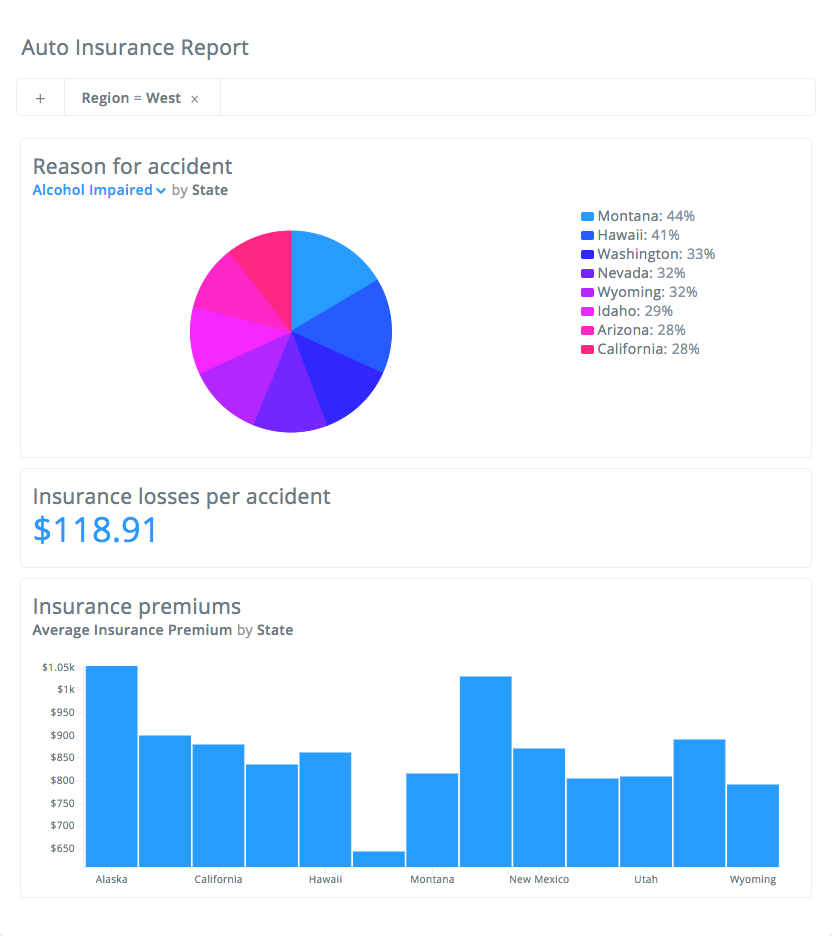
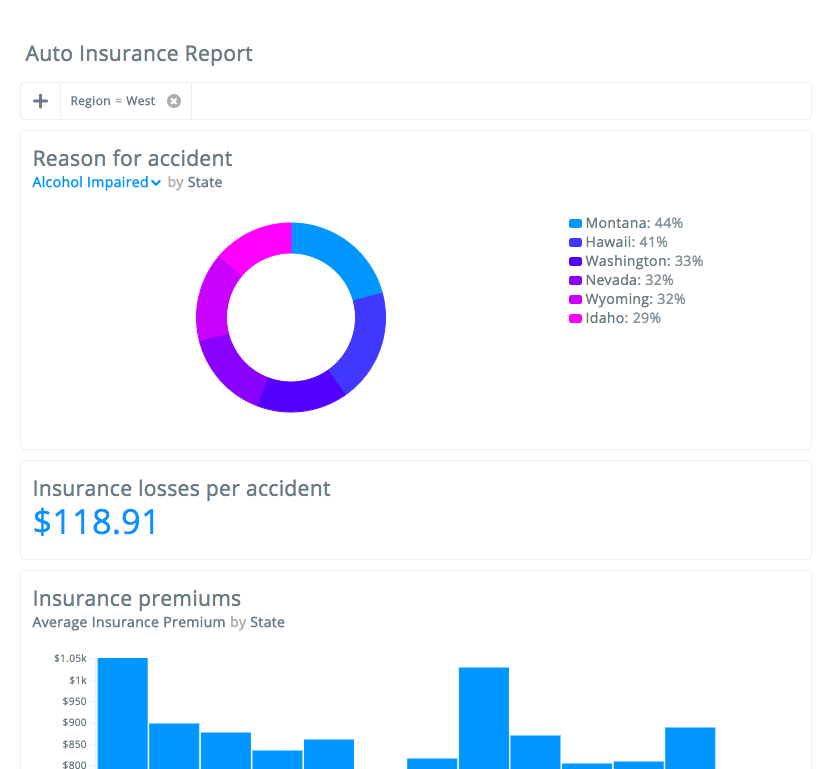
Improve titles and cards

Changed region(s): [[0.0312, 0.6242, 0.9375, 1.0], [0.0312, 0.0312, 0.4688, 0.593], [0.6875, 0.2185, 0.875, 0.4369]]

diff --git a/src/stylesheets/main.css b/src/stylesheets/main.css
@@ -1,1 +1,1 @@
-.card-container,.fork-me,.resources,header{text-align:center}@font-face{font-family:Montserrat;font-style:normal;font-weight:400;src:local('Montserrat Regular'),local('Montserrat-Regular'),url(https://fonts.gstatic.com/s/montserrat/v11/zhcz-_WihjSQC0oHJ9TCYC3USBnSvpkopQaUR-2r7iU.ttf) format('truetype')}@font-face{font-family:'Open Sans';font-style:normal;font-weight:400;src:local('Open Sans Regular'),local('OpenSans-Regular'),url(https://fonts.gstatic.com/s/opensans/v15/cJZKeOuBrn4kERxqtaUH3aCWcynf_cDxXwCLxiixG1c.ttf) format('truetype')}header{width:100%;margin-top:38px;margin-bottom:30px}.logo{width:40px;height:auto;margin-bottom:60px}.fork-me{top:80px;right:-100px;transform:rotate(45deg);-webkit-transform:rotate(45deg);position:absolute;width:400px;background:#269CFF;line-height:50px;letter-spacing:1px;color:#fff;box-shadow:0 0 3px rgba(0,0,0,.3)}.card,.container,.dataset a,p{position:relative}.lead{max-width:600px;margin:0 auto 50px}.title::first-letter{text-transform:capitalize}.feature,h6{text-transform:uppercase;display:inline-block}.resources{width:100%}.resources div{display:inline-block;margin:0 10px 10px}.resources h6{margin:0}.resources p{color:#404040;display:inline-block;margin:0}.feature{z-index:99;background-color:#fff;border-radius:1rem;border:1px solid #DEDEDE;box-shadow:none;margin:3px 6px 0 0;font-size:.7rem;font-family:Montserrat,Helvetica,Arial,sans-serif;padding:5px 10px}.feature.custom_colors{color:#E341D5}.feature.custom_controls{color:#00AD39}.feature.filters{color:#40e0d0}.feature.formatters{color:#FACF13}.feature.multitenancy{color:#FF03A6}.feature.themes{color:#269CFF}.feature.data_interactions{color:orange}.feature.dates{color:#CC2645}.feature.custom_components{color:#4475CC}.feature.ready_to_fork{color:grey}.dataset a,p{top:1px}body{padding:0;margin:0}.container{font-family:'Open Sans',sans-serif;font-size:1rem;padding:0 30px 100px;color:#F2F2F2;background-color:#F6F6F6;margin:0 auto;letter-spacing:.02223rem;font-weight:400;overflow-x:hidden;min-height:calc(100vh - 100px)}h2,h6{color:#888}h1,h2,h3,h4,h5,h6{margin:0 0 1rem;line-height:1.5;font-weight:400}h1{font-size:1.778rem;color:#404040}h2{font-size:1.15rem;line-height:1.7;margin-bottom:1.111rem}h3{font-size:1.5rem;margin-bottom:0}h6{font-size:.7rem;font-family:Montserrat,Helvetica,Arial,sans-serif}#app-navigation .defaultTitle:first-letter,#app-navigation .navTitle:first-letter,.controls button#major-btn,.controls input#major-btn,.controls select#major-btn{text-transform:capitalize}#reset-btn,.controls button,.controls input,.controls select{z-index:99;font-family:'Open Sans',sans-serif}p{margin:.5rem 0 1rem}:focus{outline:0}a{color:#269cff;text-decoration:none}button:hover{cursor:pointer}hr{display:block;height:1px;border:0;padding:0;background:#DEDEDE;background:-moz-linear-gradient(0deg,#DEDEDE,#DEDEDE 60%,#F2F2F2);background:-webkit-gradient(linear,0 0,100% 0,from(#DEDEDE),color-stop(60%,#DEDEDE),to(#F2F2F2))}#app-header,#app-navigation,.toolbar,.view-container{max-width:800px;margin:0 auto}.view-container{border:1px solid #DEDEDE;border-bottom-left-radius:.2778rem;border-bottom-right-radius:.2778rem;border-top:none;padding:1.5rem 1rem 1rem;min-height:400px;overflow:hidden}@media (max-width:799px){.view-container{padding:15px 5px 5px}.toolbar{text-align:center}.toolbar .controls{float:none}}.toolbar{border:1px solid #DEDEDE;border-top-left-radius:.2778rem;border-top-right-radius:.2778rem;background-color:#F2F2F2;padding:1rem;overflow:auto}#app-instruction{display:inline-block}@media (max-width:799px){#app-instruction{display:none}#app-navigation{text-align:center}}.controls,.instruction{display:inline-block;color:#888}.controls strong,.instruction strong{color:#269CFF;background-color:#fff;padding:2px 8px;border-radius:5rem}.controls{float:right;margin:8px auto}.controls button,.controls input,.controls select{border-radius:.2778rem;font-size:.7rem;border:1px solid #DEDEDE;background-color:#fff;padding:10px;box-shadow:.05556rem .05556rem .2222rem rgba(0,0,0,.22);color:#888}.controls button.active,.controls input.active,.controls select.active{color:#fff;background-color:#269CFF;border-color:#269CFF}.controls button.alert,.controls input.alert,.controls select.alert{color:#fff;background-color:#FF2645}.controls button span,.controls input span,.controls select span{color:red}.controls input{width:160px}.controls input.dateInput{width:140px}.controls #major-btn,.controls select{font-size:1rem;padding:2px 6px 3px;box-shadow:none}#app-navigation{margin:40px auto 20px;height:40px;width:100%}#app-navigation .prev{float:left}#app-navigation .next{float:right}#app-navigation .defaultTitle,#app-navigation .navTitle{display:inline-block;padding:0 5px;vertical-align:super;font-size:1.15rem}#app-navigation strong{font-size:20px;position:relative;top:-6px}.card-container{width:100%;margin:80px auto 0;max-width:1200px}@media (max-width:1237px){.card-container{max-width:800px}}.card-list{display:-ms-flexbox;display:flex;-ms-flex-flow:row wrap;flex-flow:row wrap;width:100%}.card-filler,.card-wrapper{width:350px;-ms-flex-pack:justify;justify-content:space-between;padding:0 20px;margin:0 auto}@media (max-width:750px){.card-filler,.card-wrapper{padding:0}}.card{text-align:left;margin-bottom:50px}.card.inactive img{opacity:.5;filter:grayscale(10%)}.card .image-wrapper{border:1px solid #DEDEDE;border-radius:.2778rem;max-height:190px;overflow:hidden;margin-bottom:1rem;box-shadow:.2rem .2rem .8rem rgba(0,0,0,.05)}.card img{width:100%;height:auto}.card .title{color:#404040}#reset-btn,.footer .link-list p{color:#888}.card .description{color:#888;line-height:1.5em}.hidden{display:none!important}@media (max-width:799px){.desktop-only{display:none}}@media (min-width:800px){.mobile-only{display:none}}.footer{background-color:#DEDEDE;position:absolute;bottom:0;left:0;right:0;width:100%;height:60px;text-align:center;font-size:1.15rem;display:-ms-flexbox;display:flex;-ms-flex-align:center;align-items:center}#reset-btn,.view-container{background-color:#fff}.footer .link-list{margin:0 auto;padding:0 1.65rem}.footer .link-list a.mobile-only:not(:first-of-type){padding-left:50px}.custom-report .resources{display:none}.custom-report .view-container{border-top:1px solid #DEDEDE;border-radius:.2778rem}#reset-btn{border-radius:.2778rem;font-size:.7rem;border:1px solid #DEDEDE;padding:10px;box-shadow:.05556rem .05556rem .2222rem rgba(0,0,0,.22)}.viz-view-container .viz-view-message-container{position:relative!important;margin-top:100px}.viz-view-container .viz-view-message-container:after{position:absolute;text-align:center;transform:translate(-50%,-50%);left:50%;top:80px;color:#269CFF;content:'View is locked! Please authenticate.'}#jurfWr30SiiPlM8Nt0QJpg-2-grid-item .viz-pie .viz-pie-arc:nth-of-type(1){fill:#838383!important;stroke:#838383!important}#jurfWr30SiiPlM8Nt0QJpg-2-grid-item .viz .viz-legend .viz-series:nth-of-type(2) .viz-series-indicator{background:#838383!important}#jurfWr30SiiPlM8Nt0QJpg-2-grid-item .viz-pie .viz-pie-arc:nth-of-type(2){fill:#9c9c9c!important;stroke:#9c9c9c!important}#jurfWr30SiiPlM8Nt0QJpg-2-grid-item .viz .viz-legend .viz-series:nth-of-type(1) .viz-series-indicator{background:#9c9c9c!important}#jurfWr30SiiPlM8Nt0QJpg-2-grid-item .viz-pie .viz-pie-arc:nth-of-type(3){fill:#b6b6b6!important;stroke:#b6b6b6!important}#jurfWr30SiiPlM8Nt0QJpg-2-grid-item .viz .viz-legend .viz-series:nth-of-type(3) .viz-series-indicator{background:#b6b6b6!important}#jurfWr30SiiPlM8Nt0QJpg-2-grid-item .viz-pie .viz-pie-arc:nth-of-type(4){fill:#cfcfcf!important;stroke:#cfcfcf!important}#jurfWr30SiiPlM8Nt0QJpg-2-grid-item .viz .viz-legend .viz-series:nth-of-type(4) .viz-series-indicator{background:#cfcfcf!important}#jurfWr30SiiPlM8Nt0QJpg-2-grid-item .viz-pie .viz-pie-arc:nth-of-type(5){fill:#e9e9e9!important;stroke:#e9e9e9!important}#jurfWr30SiiPlM8Nt0QJpg-2-grid-item .viz .viz-legend .viz-series:nth-of-type(5) .viz-series-indicator{background:#e9e9e9!important}.klout-report #view2{margin-top:-20px}.klout-report #view .viz-bar .viz-color-0 .viz-bar-rect:nth-of-type(4),.klout-report #view .viz-bar.viz-focused .viz-color-0.viz-active .viz-bar-rect:nth-of-type(4).viz-opened{fill:#265bff;stroke:#265bff}.klout-report #view .viz-bar .viz-color-0 .viz-bar-rect:nth-of-type(3),.klout-report #view .viz-bar .viz-color-0 .viz-bar-rect:nth-of-type(3).focussed,.klout-report #view .viz-bar.viz-focused .viz-color-0.viz-active .viz-bar-rect:nth-of-type(3).viz-opened,.klout-report #view .viz-bar.viz-focused .viz-color-0.viz-active .viz-bar-rect:nth-of-type(3).viz-opened.focussed{fill:#3226ff;stroke:#3226ff}.klout-report #view .viz-bar .viz-color-0 .viz-bar-rect:nth-of-type(2),.klout-report #view .viz-bar .viz-color-0 .viz-bar-rect:nth-of-type(2).focussed,.klout-report #view .viz-bar.viz-focused .viz-color-0.viz-active .viz-bar-rect:nth-of-type(2).viz-opened,.klout-report #view .viz-bar.viz-focused .viz-color-0.viz-active .viz-bar-rect:nth-of-type(2).viz-opened.focussed{fill:#7326ff;stroke:#7326ff}.klout-report #view .viz-bar .viz-color-0 .viz-bar-rect:nth-of-type(1),.klout-report #view .viz-bar .viz-color-0 .viz-bar-rect:nth-of-type(1).focussed,.klout-report #view .viz-bar.viz-focused .viz-color-0.viz-active .viz-bar-rect:nth-of-type(1).viz-opened,.klout-report #view .viz-bar.viz-focused .viz-color-0.viz-active .viz-bar-rect:nth-of-type(1).viz-opened.focussed{fill:#b426ff;stroke:#b426ff}.view-container.theming-demo{background-color:#333}.view-container.theming-demo .viz-dom-node{color:#ECEBEA}@media (max-width:799px){.viz-controls,.viz-legend,.viz-options{width:0!important;padding:0!important;display:none}}@media (max-width:500px){.viz-tooltip{text-align:center;transform:translate(-50%,-50%);top:-7%!important;left:50%!important;z-index:99;width:100%}.viz-visualization{overflow:visible!important;z-index:0!important}}
+.card-container,.fork-me,.resources,header{text-align:center}@font-face{font-family:Montserrat;font-style:normal;font-weight:400;src:local('Montserrat Regular'),local('Montserrat-Regular'),url(https://fonts.gstatic.com/s/montserrat/v11/zhcz-_WihjSQC0oHJ9TCYC3USBnSvpkopQaUR-2r7iU.ttf) format('truetype')}@font-face{font-family:'Open Sans';font-style:normal;font-weight:400;src:local('Open Sans Regular'),local('OpenSans-Regular'),url(https://fonts.gstatic.com/s/opensans/v15/cJZKeOuBrn4kERxqtaUH3aCWcynf_cDxXwCLxiixG1c.ttf) format('truetype')}header{width:100%;margin-top:38px;margin-bottom:30px}.logo{width:40px;height:auto;margin-bottom:60px}.fork-me{top:80px;right:-100px;transform:rotate(45deg);-webkit-transform:rotate(45deg);position:absolute;width:400px;background:#269CFF;line-height:50px;letter-spacing:1px;color:#fff;box-shadow:0 0 3px rgba(0,0,0,.3)}.card,.container,.dataset a,p{position:relative}.lead{max-width:600px;margin:0 auto 50px}.title::first-letter{text-transform:capitalize}.feature,h6{text-transform:uppercase;display:inline-block}.resources{width:100%}.resources div{display:inline-block;margin:0 10px 10px}.resources h6{margin:0}.resources p{color:#404040;display:inline-block;margin:0}.feature{z-index:99;background-color:#fff;border-radius:1rem;border:1px solid #DEDEDE;box-shadow:none;margin:3px 6px 0 0;font-size:.7rem;font-family:Montserrat,Helvetica,Arial,sans-serif;padding:5px 10px}.feature.custom_colors{color:#E341D5}.feature.custom_controls{color:#00AD39}.feature.filters{color:#40e0d0}.feature.formatters{color:#FACF13}.feature.parameters{color:#FF03A6}.feature.themes{color:#269CFF}.feature.data_interactions{color:orange}.feature.dates{color:#CC2645}.feature.custom_components{color:#4475CC}.feature.ready_to_fork{color:grey}.dataset a,p{top:1px}body{padding:0;margin:0}.container{font-family:'Open Sans',sans-serif;font-size:1rem;padding:0 30px 100px;color:#F2F2F2;background-color:#F6F6F6;margin:0 auto;letter-spacing:.02223rem;font-weight:400;overflow-x:hidden;min-height:calc(100vh - 100px)}h2,h6{color:#888}h1,h2,h3,h4,h5,h6{margin:0 0 1rem;line-height:1.5;font-weight:400}h1{font-size:1.778rem;color:#404040}h2{font-size:1.15rem;line-height:1.7;margin-bottom:1.111rem}h3{font-size:1.5rem;margin-bottom:0}h6{font-size:.7rem;font-family:Montserrat,Helvetica,Arial,sans-serif}#app-navigation .defaultTitle:first-letter,#app-navigation .navTitle:first-letter,.controls button#major-btn,.controls input#major-btn,.controls select#major-btn{text-transform:capitalize}#reset-btn,.controls button,.controls input,.controls select{z-index:99;font-family:'Open Sans',sans-serif}p{margin:.5rem 0 1rem}:focus{outline:0}a{color:#269cff;text-decoration:none}button:hover{cursor:pointer}hr{display:block;height:1px;border:0;padding:0;background:#DEDEDE;background:-moz-linear-gradient(0deg,#DEDEDE,#DEDEDE 60%,#F2F2F2);background:-webkit-gradient(linear,0 0,100% 0,from(#DEDEDE),color-stop(60%,#DEDEDE),to(#F2F2F2))}#app-header,#app-navigation,.toolbar,.view-container{max-width:800px;margin:0 auto}.view-container{border:1px solid #DEDEDE;border-bottom-left-radius:.2778rem;border-bottom-right-radius:.2778rem;border-top:none;padding:1.5rem 1rem 1rem;min-height:400px;overflow:hidden}@media (max-width:799px){.view-container{padding:15px 5px 5px}.toolbar{text-align:center}.toolbar .controls{float:none}}.toolbar{border:1px solid #DEDEDE;border-top-left-radius:.2778rem;border-top-right-radius:.2778rem;background-color:#F2F2F2;padding:1rem;overflow:auto}#app-instruction{display:inline-block}@media (max-width:799px){#app-instruction{display:none}#app-navigation{text-align:center}}.controls,.instruction{display:inline-block;color:#888}.controls strong,.instruction strong{color:#269CFF;background-color:#fff;padding:2px 8px;border-radius:5rem}.controls{float:right;margin:8px auto}.controls button,.controls input,.controls select{border-radius:.2778rem;font-size:.7rem;border:1px solid #DEDEDE;background-color:#fff;padding:10px;box-shadow:.05556rem .05556rem .2222rem rgba(0,0,0,.22);color:#888}.controls button.active,.controls input.active,.controls select.active{color:#fff;background-color:#269CFF;border-color:#269CFF}.controls button.alert,.controls input.alert,.controls select.alert{color:#fff;background-color:#FF2645}.controls button span,.controls input span,.controls select span{color:red}.controls input{width:160px}.controls input.dateInput{width:140px}.controls #major-btn,.controls select{font-size:1rem;padding:2px 6px 3px;box-shadow:none}#app-navigation{margin:40px auto 20px;height:40px;width:100%}#app-navigation .prev{float:left}#app-navigation .next{float:right}#app-navigation .defaultTitle,#app-navigation .navTitle{display:inline-block;padding:0 5px;vertical-align:super;font-size:1.15rem}#app-navigation strong{font-size:20px;position:relative;top:-6px}.card-container{width:100%;margin:80px auto 0;max-width:1200px}@media (max-width:1237px){.card-container{max-width:800px}}.card-list{display:-ms-flexbox;display:flex;-ms-flex-flow:row wrap;flex-flow:row wrap;width:100%}.card-filler,.card-wrapper{width:350px;-ms-flex-pack:justify;justify-content:space-between;padding:0 20px;margin:0 auto}@media (max-width:750px){.card-filler,.card-wrapper{padding:0}}.card{text-align:left;margin-bottom:50px}.card.inactive img{opacity:.5;filter:grayscale(10%)}.card .image-wrapper{border:1px solid #DEDEDE;border-radius:.2778rem;max-height:190px;overflow:hidden;margin-bottom:1rem;box-shadow:.2rem .2rem .8rem rgba(0,0,0,.05)}.card img{width:100%;height:auto}.card .title{color:#404040}#reset-btn,.footer .link-list p{color:#888}.card .description{color:#888;line-height:1.5em}.hidden{display:none!important}@media (max-width:799px){.desktop-only{display:none}}@media (min-width:800px){.mobile-only{display:none}}.footer{background-color:#DEDEDE;position:absolute;bottom:0;left:0;right:0;width:100%;height:60px;text-align:center;font-size:1.15rem;display:-ms-flexbox;display:flex;-ms-flex-align:center;align-items:center}#reset-btn,.view-container{background-color:#fff}.footer .link-list{margin:0 auto;padding:0 1.65rem}.footer .link-list a.mobile-only:not(:first-of-type){padding-left:50px}.custom-report .resources{display:none}.custom-report .view-container{border-top:1px solid #DEDEDE;border-radius:.2778rem}#reset-btn{border-radius:.2778rem;font-size:.7rem;border:1px solid #DEDEDE;padding:10px;box-shadow:.05556rem .05556rem .2222rem rgba(0,0,0,.22)}.viz-view-container .viz-view-message-container{position:relative!important;margin-top:100px}.viz-view-container .viz-view-message-container:after{position:absolute;text-align:center;transform:translate(-50%,-50%);left:50%;top:80px;color:#269CFF;content:'View is locked! Please authenticate.'}#jurfWr30SiiPlM8Nt0QJpg-2-grid-item .viz-pie .viz-pie-arc:nth-of-type(1){fill:#838383!important;stroke:#838383!important}#jurfWr30SiiPlM8Nt0QJpg-2-grid-item .viz .viz-legend .viz-series:nth-of-type(2) .viz-series-indicator{background:#838383!important}#jurfWr30SiiPlM8Nt0QJpg-2-grid-item .viz-pie .viz-pie-arc:nth-of-type(2){fill:#9c9c9c!important;stroke:#9c9c9c!important}#jurfWr30SiiPlM8Nt0QJpg-2-grid-item .viz .viz-legend .viz-series:nth-of-type(1) .viz-series-indicator{background:#9c9c9c!important}#jurfWr30SiiPlM8Nt0QJpg-2-grid-item .viz-pie .viz-pie-arc:nth-of-type(3){fill:#b6b6b6!important;stroke:#b6b6b6!important}#jurfWr30SiiPlM8Nt0QJpg-2-grid-item .viz .viz-legend .viz-series:nth-of-type(3) .viz-series-indicator{background:#b6b6b6!important}#jurfWr30SiiPlM8Nt0QJpg-2-grid-item .viz-pie .viz-pie-arc:nth-of-type(4){fill:#cfcfcf!important;stroke:#cfcfcf!important}#jurfWr30SiiPlM8Nt0QJpg-2-grid-item .viz .viz-legend .viz-series:nth-of-type(4) .viz-series-indicator{background:#cfcfcf!important}#jurfWr30SiiPlM8Nt0QJpg-2-grid-item .viz-pie .viz-pie-arc:nth-of-type(5){fill:#e9e9e9!important;stroke:#e9e9e9!important}#jurfWr30SiiPlM8Nt0QJpg-2-grid-item .viz .viz-legend .viz-series:nth-of-type(5) .viz-series-indicator{background:#e9e9e9!important}.klout-report #view2{margin-top:-20px}.klout-report #view .viz-bar .viz-color-0 .viz-bar-rect:nth-of-type(4),.klout-report #view .viz-bar.viz-focused .viz-color-0.viz-active .viz-bar-rect:nth-of-type(4).viz-opened{fill:#265bff;stroke:#265bff}.klout-report #view .viz-bar .viz-color-0 .viz-bar-rect:nth-of-type(3),.klout-report #view .viz-bar .viz-color-0 .viz-bar-rect:nth-of-type(3).focussed,.klout-report #view .viz-bar.viz-focused .viz-color-0.viz-active .viz-bar-rect:nth-of-type(3).viz-opened,.klout-report #view .viz-bar.viz-focused .viz-color-0.viz-active .viz-bar-rect:nth-of-type(3).viz-opened.focussed{fill:#3226ff;stroke:#3226ff}.klout-report #view .viz-bar .viz-color-0 .viz-bar-rect:nth-of-type(2),.klout-report #view .viz-bar .viz-color-0 .viz-bar-rect:nth-of-type(2).focussed,.klout-report #view .viz-bar.viz-focused .viz-color-0.viz-active .viz-bar-rect:nth-of-type(2).viz-opened,.klout-report #view .viz-bar.viz-focused .viz-color-0.viz-active .viz-bar-rect:nth-of-type(2).viz-opened.focussed{fill:#7326ff;stroke:#7326ff}.klout-report #view .viz-bar .viz-color-0 .viz-bar-rect:nth-of-type(1),.klout-report #view .viz-bar .viz-color-0 .viz-bar-rect:nth-of-type(1).focussed,.klout-report #view .viz-bar.viz-focused .viz-color-0.viz-active .viz-bar-rect:nth-of-type(1).viz-opened,.klout-report #view .viz-bar.viz-focused .viz-color-0.viz-active .viz-bar-rect:nth-of-type(1).viz-opened.focussed{fill:#b426ff;stroke:#b426ff}.view-container.theming-demo{background-color:#333}.view-container.theming-demo .viz-dom-node{color:#ECEBEA}@media (max-width:799px){.viz-controls,.viz-legend,.viz-options{width:0!important;padding:0!important;display:none}}@media (max-width:500px){.viz-tooltip{text-align:center;transform:translate(-50%,-50%);top:-7%!important;left:50%!important;z-index:99;width:100%}.viz-visualization{overflow:visible!important;z-index:0!important}}

diff --git a/src/javascripts/app-template.js b/src/javascripts/app-template.js
@@ -1,1 +1,1 @@
-"use strict";var featureUrls={custom_colors:"https://reflect.io/docs/platform/embedding#Customcolors",filters:"https://reflect.io/docs/platform/embedding#Filters",multitenancy:"https://reflect.io/docs/platform/authentication#Parameterizedviews",themes:"https://reflect.io/docs/platform/theming",formatters:"https://reflect.io/docs/platform/embedding#Formatters",data_interactions:"https://reflect.io/docs/platform/embedding#Interactions",custom_controls:"https://reflect.io/docs/platform/embedding#CustomizingyourReflectviews",custom_components:"https://reflect.io/docs/platform/embedding#Customcomponenttypes",dates:"https://reflect.io/docs/platform/embedding#Dateranges",ready_to_fork:"https://github.com/reflect/examples/tree/master/apps"};$(function(){var e=window.location.pathname.slice(0,-1),t=e.substring(e.lastIndexOf("/")+1,e.length);$.get("../src/json/examples.json",function(e){function a(){$(window).width()<=799?($(".defaultTitle").removeClass("hidden"),$(".navTitle").addClass("hidden")):($(".defaultTitle").addClass("hidden"),$(".navTitle").removeClass("hidden"))}var s,n=e.find(function(e,a){return s=a,e.category===t}),r=s>0?e[s-1]:e[e.length-1],o=e.length>s+1?e[s+1]:e[0];"top-influencers"===r.category?r=e[e.length-2]:"top-influencers"===o.category&&(o=e[0]);var l;if("top-influencers"===n.category&&location.search.substr(1)){l=location.search.substr(1).match(/[^&]*/)[0].replace(/%20/g," ")+"'s "+n.category.replace(/-/g," ")}else l=n.category.replace(/-/g," "),l=l.substr(0,1).toUpperCase()+l.substr(1);$("#app-title").text(l+" / Reflect");var i=[];n.features.forEach(function(e){var t=e.split(" ").join("_"),a=featureUrls[t];i.push('<a target="_blank" class="feature '+t+'" href="'+a+'">'+e+"</a>")}),i=i.sort().join("");var c,d=n.dataset;c="default"===d?"<p> Default sample connection</p>":"klout"===d?"<p>Klout API</p>":'<a id="dataset-download" href="https://cdn.reflect.io/datasets/'+d+'">'+d+"</a>",$("#app-instruction").html('\n      <small class="instruction"><strong>1</strong> '+n.mainGoal+'</small><br>\n      <hr><small class="instruction"><strong>2</strong> '+n.secondaryGoal+"</small>\n    ");var p=$("#app-header"),f="https://github.com/reflect/examples/blob/master/apps/"+n.category+"/index.html";p.append('\n      <a id="github-header" target="_blank" class="fork-me desktop-only" href="'+f+'">View on GitHub</a>\n      <div class="lead">\n        <h1 class="title">'+l+"</h1>\n        <h2>"+n.description+'</h2>\n      </div>\n      <div class="resources desktop-only">\n        <div class="features">\n          <h6>Features</h6>\n          '+i+'\n        </div>\n        <div class="dataset">\n          <h6>Dataset</h6>\n          '+c+"\n        </div>\n      </div>\n    ");var h=$("#app-navigation"),m=r.category.replace(/-/g," "),g=o.category.replace(/-/g," ");h.html('\n      <a class="prev" href="../'+r.category+'">\n        <strong>&#10094</strong>\n        <span class="navTitle">'+m+'</span>\n        <span class="defaultTitle hidden">Previous</span>\n      </a>\n      <a class="next" href="../'+o.category+'">\n        <span class="navTitle">'+g+'</span>\n        <span class="defaultTitle hidden">Next</span>\n        <strong>&#10095</strong>\n      </a>\n    '),a(),$(window).on("resize",function(){a()}),$("#app-footer").html('\n      <div class="footer">\n        <div class="link-list">\n          <p class="desktop-only">\n            View the <a id="github-footer" target="_blank" href="'+f+'">code</a>  on GitHub,\n            <a target="_blank" href="https://app.reflect.io/register">create</a>  an account,\n            or <a target="_blank" href="https://reflect.io">visit</a>  the Reflect website\n          </p>\n          <a class="mobile-only" target="_blank" href="https://app.reflect.io/register">Join Reflect</a>\n          <a class="mobile-only" target="_blank" href="https://reflect.io">Learn more</a>\n        </div>\n      </div>\n    ');var u=document.getElementById("dataset-download");analytics.trackLink(u,"Dataset downloaded",{example:n.name,category:n.category,dataset:n.dataset});var v=document.getElementById("github-footer");analytics.trackLink(v,"GitHub visited",{example:n.name,category:n.category,features:n.features,location:"footer"});var b=document.getElementById("github-header");analytics.trackLink(b,"GitHub visited",{example:n.name,category:n.category,features:n.features,location:"header"})})});
+"use strict";var featureUrls={custom_colors:"https://reflect.io/docs/platform/embedding#Customcolors",filters:"https://reflect.io/docs/platform/embedding#Filters",parameters:"https://reflect.io/docs/platform/authentication#Parameterizedviews",themes:"https://reflect.io/docs/platform/theming",formatters:"https://reflect.io/docs/platform/embedding#Formatters",data_interactions:"https://reflect.io/docs/platform/embedding#Interactions",custom_controls:"https://reflect.io/docs/platform/embedding#CustomizingyourReflectviews",custom_components:"https://reflect.io/docs/platform/embedding#Customcomponenttypes",dates:"https://reflect.io/docs/platform/embedding#Dateranges",ready_to_fork:"https://github.com/reflect/examples/tree/master/apps"};$(function(){var e=window.location.pathname.slice(0,-1),t=e.substring(e.lastIndexOf("/")+1,e.length);$.get("../src/json/examples.json",function(e){function a(){$(window).width()<=799?($(".defaultTitle").removeClass("hidden"),$(".navTitle").addClass("hidden")):($(".defaultTitle").addClass("hidden"),$(".navTitle").removeClass("hidden"))}var s,n=e.find(function(e,a){return s=a,e.category===t}),r=s>0?e[s-1]:e[e.length-1],o=e.length>s+1?e[s+1]:e[0];"top-influencers"===r.category?r=e[e.length-2]:"top-influencers"===o.category&&(o=e[0]);var l;if("top-influencers"===n.category&&location.search.substr(1)){l=location.search.substr(1).match(/[^&]*/)[0].replace(/%20/g," ")+"'s "+n.category.replace(/-/g," ")}else l=n.category.replace(/-/g," "),l=l.substr(0,1).toUpperCase()+l.substr(1);$("#app-title").text(l+" / Reflect");var i=[];n.features.forEach(function(e){var t=e.split(" ").join("_"),a=featureUrls[t];i.push('<a target="_blank" class="feature '+t+'" href="'+a+'">'+e+"</a>")}),i=i.sort().join("");var c,d=n.dataset;c="default"===d?"<p> Default sample connection</p>":"klout"===d?"<p>Klout API</p>":'<a id="dataset-download" href="https://cdn.reflect.io/datasets/'+d+'">'+d+"</a>",$("#app-instruction").html('\n      <small class="instruction"><strong>1</strong> '+n.mainGoal+'</small><br>\n      <hr><small class="instruction"><strong>2</strong> '+n.secondaryGoal+"</small>\n    ");var p=$("#app-header"),f="https://github.com/reflect/examples/blob/master/apps/"+n.category+"/index.html";p.append('\n      <a id="github-header" target="_blank" class="fork-me desktop-only" href="'+f+'">View on GitHub</a>\n      <div class="lead">\n        <h1 class="title">'+l+"</h1>\n        <h2>"+n.description+'</h2>\n      </div>\n      <div class="resources desktop-only">\n        <div class="features">\n          <h6>Features</h6>\n          '+i+'\n        </div>\n        <div class="dataset">\n          <h6>Dataset</h6>\n          '+c+"\n        </div>\n      </div>\n    ");var h=$("#app-navigation"),m=r.category.replace(/-/g," "),g=o.category.replace(/-/g," ");h.html('\n      <a class="prev" href="../'+r.category+'">\n        <strong>&#10094</strong>\n        <span class="navTitle">'+m+'</span>\n        <span class="defaultTitle hidden">Previous</span>\n      </a>\n      <a class="next" href="../'+o.category+'">\n        <span class="navTitle">'+g+'</span>\n        <span class="defaultTitle hidden">Next</span>\n        <strong>&#10095</strong>\n      </a>\n    '),a(),$(window).on("resize",function(){a()}),$("#app-footer").html('\n      <div class="footer">\n        <div class="link-list">\n          <p class="desktop-only">\n            View the <a id="github-footer" target="_blank" href="'+f+'">code</a>  on GitHub,\n            <a target="_blank" href="https://app.reflect.io/register">create</a>  an account,\n            or <a target="_blank" href="https://reflect.io">visit</a>  the Reflect website\n          </p>\n          <a class="mobile-only" target="_blank" href="https://app.reflect.io/register">Join Reflect</a>\n          <a class="mobile-only" target="_blank" href="https://reflect.io">Learn more</a>\n        </div>\n      </div>\n    ');var u=document.getElementById("dataset-download");analytics.trackLink(u,"Dataset downloaded",{example:n.name,category:n.category,dataset:n.dataset});var v=document.getElementById("github-footer");analytics.trackLink(v,"GitHub visited",{example:n.name,category:n.category,features:n.features,location:"footer"});var b=document.getElementById("github-header");analytics.trackLink(b,"GitHub visited",{example:n.name,category:n.category,features:n.features,location:"header"})})});

diff --git a/reformatting-values/index.html b/reformatting-values/index.html
@@ -72,9 +72,17 @@
         '(empty)': 'Undecided'
       };
 
+      var parentFormatters = {
+        'Yes': 'Has kids',
+        'No': 'Has no kids'
+      };
+
       //call to apply custom formatters
       function applyFormatters() {
         ui.withFormatters({
+          'Fliers': function(d) {
+            return d + ' fliers';
+          },
           'Is it rude to wake a passenger to walk around?': function(d) {
             return rudeFormatters[d];
           },
@@ -93,8 +101,8 @@
           'Who gets control of window shade?': function(d) {
             return windowFormatters[d];
           },
-          'Fliers': function(d) {
-            return d + ' fliers';
+          'Is a parent': function(d) {
+            return parentFormatters[d];
           }
         });
       };

diff --git a/ecommerce-sample-app/index.html b/ecommerce-sample-app/index.html
@@ -111,7 +111,7 @@
         <button class="light-theme-btn theme-btn" type="button" name="light-theme"></button>
         <button class="dark-theme-btn theme-btn" type="button" name="dark-theme"></button>
       </div>
-      <a target="_blank" class="hidden-xs github-link" href="https://github.com/reflect/examples/tree/master/apps/martech-sample-app">View on GitHub</a>
+      <a target="_blank" class="hidden-xs github-link" href="https://github.com/reflect/examples/tree/master/apps/ecommerce-sample-app">View on GitHub</a>
     </footer>
 
     <!--   JQuery Core JS   -->

diff --git a/theming-your-view/index.html b/theming-your-view/index.html
@@ -25,8 +25,8 @@
       <div class="toolbar">
         <div id="app-instruction"></div>
         <div class="controls">
-          <button id="light-theme-btn" value="Light" class="theme-btn">Light theme</button>
           <button id="dark-theme-btn" value="Dark" class="theme-btn active">Dark theme</button>
+          <button id="light-theme-btn" value="Light" class="theme-btn">Light theme</button>
         </div>
       </div>
 

diff --git a/martech-sample-app/index.html b/martech-sample-app/index.html
@@ -5,7 +5,7 @@
     <meta http-equiv="X-UA-Compatible" content="IE=edge,chrome=1" />
     <link rel="shortcut icon" type="image/x-icon" href="../favicon.ico">
 
-    <title>Adtech Sample App</title>
+    <title>martech Sample App</title>
 
     <meta content='width=device-width, initial-scale=1.0, maximum-scale=1.0, user-scalable=0' name='viewport' />
     <meta name="viewport" content="width=device-width" />
